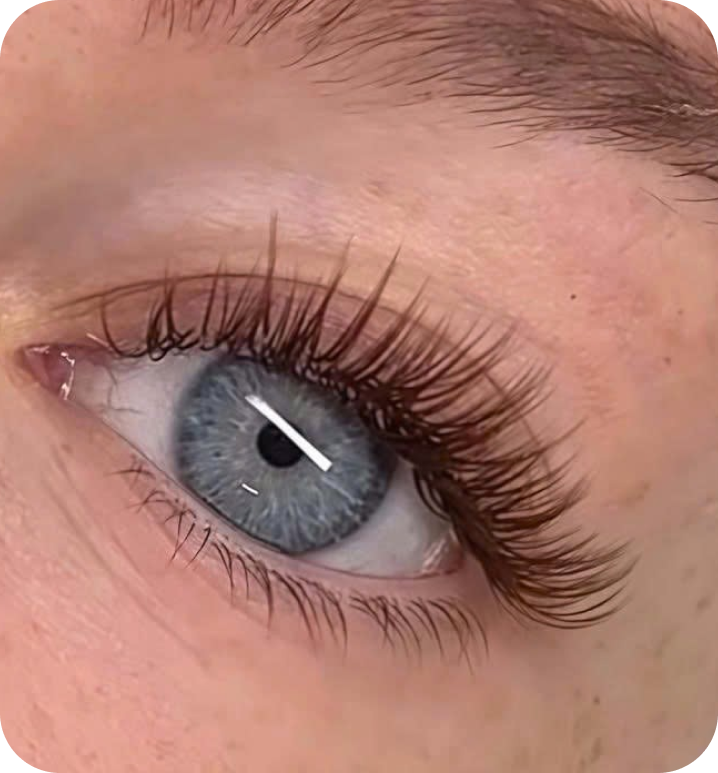
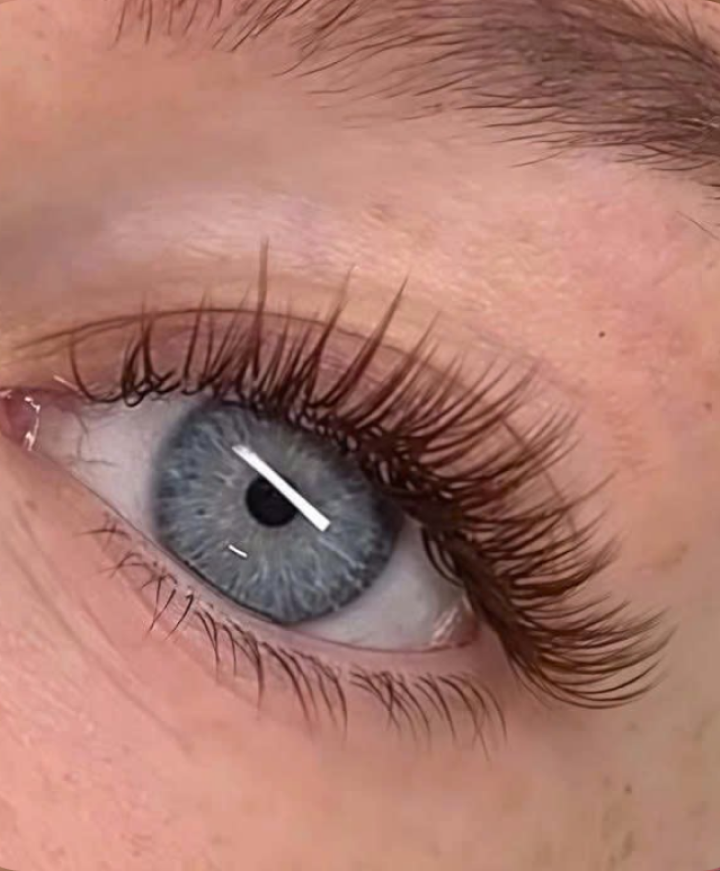
update

diff --git a/js/script.js b/js/script.js
@@ -1,7 +1,4 @@
 document.addEventListener("DOMContentLoaded", function () {
-    // ======================================================
-    // PHẦN 1: HIỆU ỨNG CUỘN TRANG (REVEAL ANIMATION)
-    // ======================================================
     const revealElements = document.querySelectorAll('.reveal-item, .section-title, .section-desc, .service-item, .hero-img, .about-img, .contact-form');
 
     const observerOptions = {
@@ -24,11 +21,6 @@ document.addEventListener("DOMContentLoaded", function () {
         observer.observe(el);
     });
 
-    // ======================================================
-    // PHẦN 2: XỬ LÝ MENU MOBILE & DROPDOWN SERVICES
-    // ======================================================
-
-    // 2.1 Xử lý đóng/mở menu chính trên mobile (Hamburger button)
     const toggler = document.querySelector('.navbar-toggler');
     if (toggler) {
         toggler.addEventListener('click', () => {
@@ -36,30 +28,24 @@ document.addEventListener("DOMContentLoaded", function () {
         });
     }
 
-    // 2.2 Xử lý Dropdown Services (Quan trọng)
     const servicesDropdown = document.querySelector('.services-dropdown');
 
     if (servicesDropdown) {
-        const servicesLinkText = servicesDropdown.querySelector('.service-link'); // Chữ Services
-        const servicesArrow = servicesDropdown.querySelector('.service-toggle');  // Nút mũi tên
-        const viewAllLink = document.querySelector('.view-all-link');             // Nút View All bên trong
+        const servicesLinkText = servicesDropdown.querySelector('.service-link'); 
+        const servicesArrow = servicesDropdown.querySelector('.service-toggle');  
+        const viewAllLink = document.querySelector('.view-all-link');             
 
-        // Hàm bật/tắt class "open" cho dropdown
         function toggleDropdownMenu() {
             servicesDropdown.classList.toggle("open");
         }
 
-        // --- XỬ LÝ KHI CLICK VÀO CHỮ "SERVICES" ---
         if (servicesLinkText) {
             servicesLinkText.addEventListener('click', (e) => {
-                e.preventDefault(); // Chặn chuyển trang
+                e.preventDefault(); 
 
-                // Kiểm tra màn hình Mobile hay Desktop
                 if (window.innerWidth < 992) {
-                    // Mobile: Mở dropdown giống như nhấn mũi tên
                     toggleDropdownMenu();
                 } else {
-                    // Desktop: Highlight nút View All (Giữ nguyên logic cũ)
                     if (viewAllLink) {
                         viewAllLink.classList.add('highlight-effect');
                         setTimeout(() => {
@@ -70,25 +56,21 @@ document.addEventListener("DOMContentLoaded", function () {
             });
         }
 
-        // --- XỬ LÝ KHI CLICK VÀO NÚT MŨI TÊN (CHEVRON) ---
         if (servicesArrow) {
             servicesArrow.addEventListener('click', (e) => {
                 e.preventDefault();
-                e.stopPropagation(); // Ngăn sự kiện nổi bọt
-
-                // Mũi tên thì luôn luôn toggle menu (cả mobile lẫn desktop nếu hiện)
+                e.stopPropagation(); 
                 toggleDropdownMenu();
             });
         }
     }
 
-    const currentUrl = window.location.href; // Lấy địa chỉ trang web hiện tại
+    const currentUrl = window.location.href; 
     const servicesParentLink = document.querySelector('.services-dropdown .service-link');
 
-    // Kiểm tra: Nếu URL có chứa chữ "services" (bao gồm cả trang cha và trang con)
     if (currentUrl.includes("services")) {
         if (servicesParentLink) {
-            servicesParentLink.classList.add("active"); // Thêm class active để in đậm
+            servicesParentLink.classList.add("active"); 
         }
     }
 });

diff --git a/assets/css/classic.css b/assets/css/classic.css
@@ -10,27 +10,30 @@
     margin-top: 10px !important;
     padding-right: 0;
     position: relative;
-    max-width: 500px; 
+    width: 100%;      
+    max-width: 65%;   
     display: flex;
     justify-content: flex-end; 
     align-items: center;
+    margin-left: 100px;
 }
 
 .service-img-stack .img-frame {
     position: absolute;
-    top: 40px;
+    top: 10px;
     left: -25px;
-    width: 100%; 
-    height: 100%;
+    width: 120%; 
+    height: 120%;
     z-index: 1;
     object-fit: contain; 
     transform: translateX(-20px); 
 }
 
 .service-img-stack .img-back {
+    border-radius: 20px;
     position: relative; 
     width: 100%; 
-    margin: 0;
+    margin: 0 ;
     object-fit: cover;
     display: block;
     z-index: 2; 
@@ -350,15 +353,12 @@
     transition: all 0.3s ease;
 }
 
-/* Đảm bảo các item không bị co lại quá mức */
 .gallery-item {
     flex: 0 0 auto; 
-    /* Không set width cứng ở đây, để class col-lg-4 tự xử lý */
 }
 
-/* Style khung ảnh: Bo góc, chiều cao cố định */
 .gallery-item .special-img-wrapper {
-    height: 350px; /* Chỉnh độ cao ảnh tại đây */
+    height: 350px;
     width: 100%;
     border-radius: 20px;
     overflow: hidden;
@@ -368,7 +368,7 @@
 .gallery-item .special-img-wrapper img {
     width: 100%;
     height: 100%;
-    object-fit: cover; /* Ảnh phủ đầy khung, không bị méo */
+    object-fit: cover; 
     display: block;
 }
 

diff --git a/assets/css/services.css b/assets/css/services.css
@@ -339,7 +339,6 @@
     font-size: 11px;
     text-transform: uppercase;
     color: #685951;
-    /* Màu nâu giống tiêu đề */
     border-bottom: 1px solid #f0f0f0;
     margin-bottom: 5px;
 }
@@ -409,10 +408,8 @@
     transition: width 0.8s ease-in-out;
 }
 
-/* Khi hover vào Card hoặc tiêu đề thì đường gạch chạy ra */
 .service-item-card:hover .underline-hover::after {
     width: 100%;
-    /* Chiều dài đạt 100% khi hover */
 }
 
 .service-item-title {
@@ -442,21 +439,13 @@
     font-size: 12px;
     letter-spacing: 0.5px;
     color: #685951;
-    /* Dùng màu nâu của tiêu đề */
     border-bottom: 2px solid #ececec;
-    /* Đường kẻ đậm hơn cho tiêu đề */
 }
-
-/* Canh chỉnh các cột trong bảng giá */
-/* .col-type { flex: 2; } 
-.col-duration { flex: 1; text-align: left; }
-.col-cost { flex: 1; text-align: right; } */
 
 .fw-bold {
     font-weight: 600;
 }
 
-/* -------------------------------------------------- */
 
 .service-desc {
     font-family: 'Urbanist', sans-serif;

diff --git a/services.html b/services.html
@@ -275,7 +275,7 @@
                     <div class="service-item-card h-100">
                         <div class="service-img-box">
                             <a href="services/mega_volume.html">
-                                <img src="assets/images/mega-volume.png" alt="Classic" class="img-fluid">
+                                <img src="assets/images/mega-volume.jpg" alt="Classic" class="img-fluid">
                             </a>
                         </div>
                         <div class="service-content">

diff --git a/services/mega_volume.html b/services/mega_volume.html
@@ -94,7 +94,7 @@
                 <div class="col-lg-6 mb-5 mb-lg-0">
                     <div class="service-img-stack">
                         <img src="../assets/images/frame-detail.png" alt="Decoration Frame" class="img-frame">
-                        <img src="../assets/images/mega-volume.png" alt="Glam Volume Main" class="img-back">
+                        <img src="../assets/images/mega-volume.jpg" alt="Glam Volume Main" class="img-back">
                     </div>
                 </div>
 
